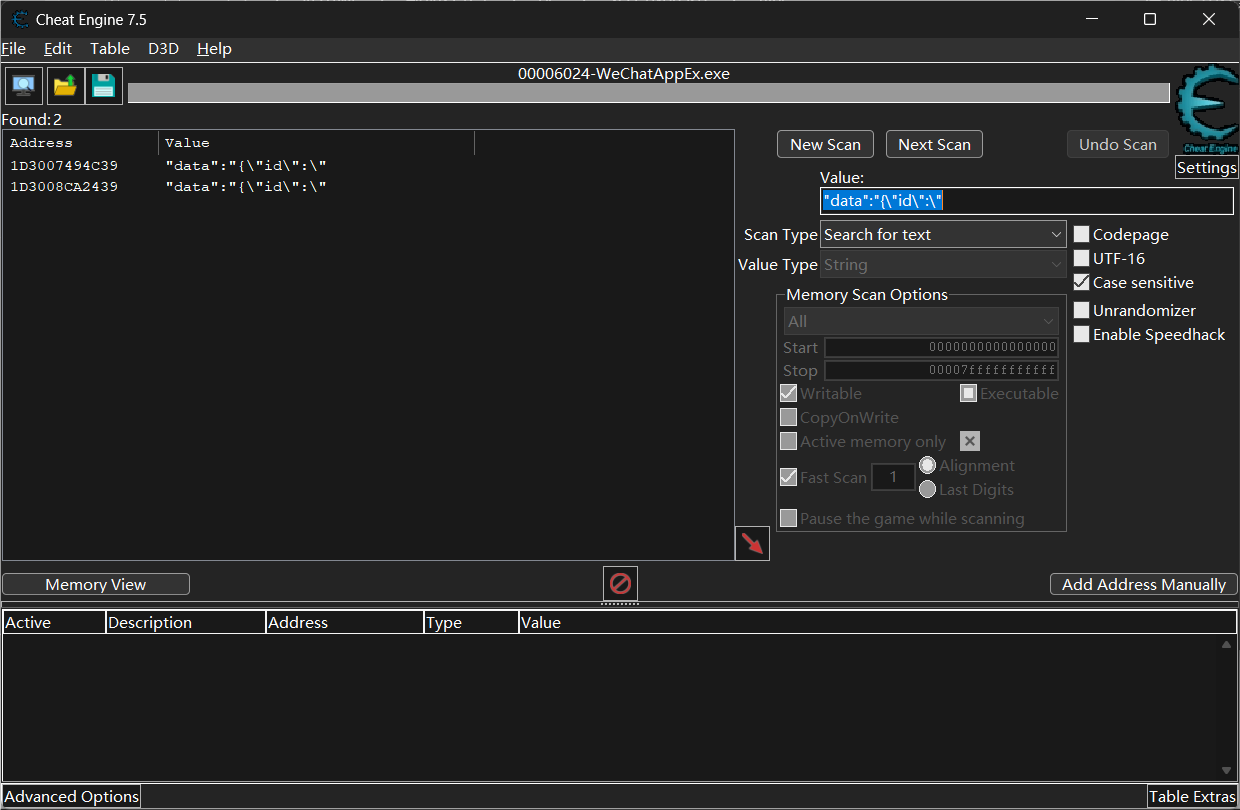
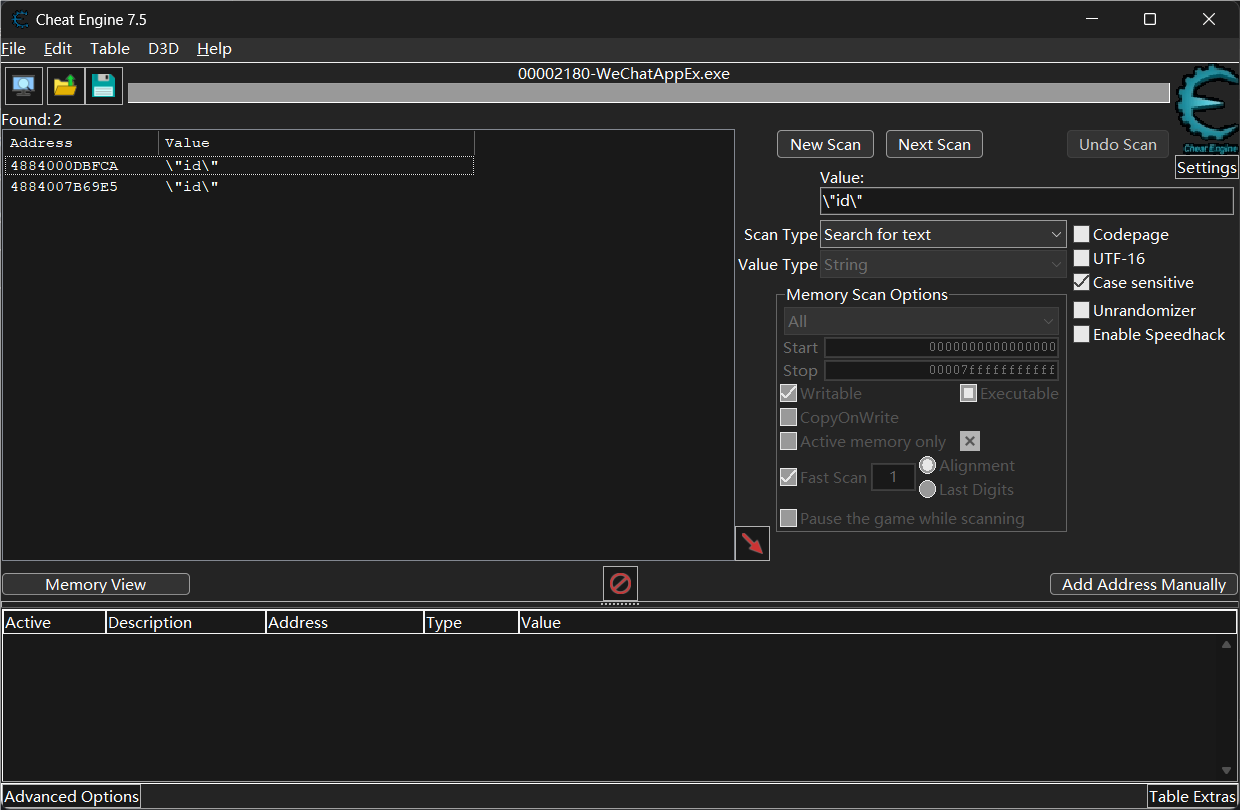
更新了readme，更正了一些操作

diff --git a/README.md b/README.md
@@ -41,7 +41,7 @@ python3 run.py
 
 1. 打开电脑端微信，运行小程序“东南大学体育管理”并登录自己的账号。
 2. 进入“锻炼”界面。
-![小程序主界面](files/miniapp_main_menu.png)
+   ![小程序主界面](files/miniapp_main_menu.png)
 
 ### 用Cheat Engine打开小程序
 
@@ -59,7 +59,7 @@ token是最重要的登录凭证，由一串长长的数字、字母和符号组
 在搜索框中输入`Bearer `（注意末尾有一个空格），然后点击`First scan`。
 ![搜索token_1](files/search_token_1.png)
 
-在结果中会出现多个条目。点击第一个结果，然后按下Ctrl+B，可以弹出一个新窗口。
+在结果中会出现多个条目。点击最后一个结果，然后按下Ctrl+B，将弹出一个新窗口。
 ![搜索token_2](files/search_token_2.png)
 ![搜索token_3](files/search_token_3.png)
 
@@ -67,11 +67,12 @@ token是最重要的登录凭证，由一串长长的数字、字母和符号组
 接着，将这串字符复制到本程序的token输入框中，如图。
 ![编辑token](files/edit_token.png)
 
-*注：如果未能找到一串无规则字符串，请使用相同的方法查看第二个、第三个地址，直到找到token。如果所有地址均没有，则尝试打开小程序的其他页面，重复以上步骤。*
+*注：如果未能找到一串无规则字符串，请使用相同的方法查看第二个、第三个地址，直到找到token。如果所有地址均没有，则尝试打开小程序的其他页面，重复以上步骤。
+实测发现，此值仅在官方小程序启动后1分钟内出现，时间过长则会自动消失，尚不清楚原因。若操作时间过长导致所有搜索结果中均未发现有效的token值，则应利用任务管理器彻底结束小程序进程，再重复操作。*
 
 #### 获取自己的tenant
 
-成功获取token后，保持Memory_viewer对话框的打开状态，稍微向上滚动地址区域，可以找到自己的tenant值。
+成功获取token后，保持Memory_viewer对话框的打开状态，稍微向上滚动地址区域，可以找到自己的tenant值。tenant值的末尾应该是两个等号。
 ![获取tenant](files/get_tenant.png)
 
 同上，在主程序中填入tenant值。
@@ -79,14 +80,16 @@ token是最重要的登录凭证，由一串长长的数字、字母和符号组
 
 #### 获取自己的id
 
-与获取token时类似，在输入框中输入`"data":"{\"id\":\"`并进行搜索。
+与获取token时类似，在输入框中输入`\"id\":\"`并进行搜索。
 ![搜索id_1](files/search_id_1.png)
 
-单击得到的地址，按Ctrl+B，即可找到你的id。
+单击得到的地址，按Ctrl+B，即可找到你的id。id一定是约18位的数字，大多数情况下都以3开头。
 ![搜索id_2](files/search_id_2.png)
 
 同上，在主程序中填入id值。
 ![编辑id](files/edit_id.png)
+
+*同上，若没有找到正确的id值，则尝试重启小程序并重试。*
 
 至此，繁琐的凭证获取过程结束了，可以关闭Cheat Engine，接下来可以配置其他选项。
 
@@ -104,22 +107,28 @@ token是最重要的登录凭证，由一串长长的数字、字母和符号组
 | Distance | 锻炼距离 | 单位为km |
 | Calorie | 本次消耗的卡路里 | 若无需求保持默认即可 |
 
-
 ### 运行主程序
 
-先点击`Save Changes`将配置文件保存到本地（以便将来无须重新填写身份信息），然后填入你的 Licecse Key （目前可填入`LOVESEU`），单击`Run`，程序即开始运行，此时可在右侧观察到输出的日志记录。
+先点击`Save Changes`将配置文件保存，然后填入你的 Licecse Key （目前可填入`LOVESEU`），单击`Run`，程序即开始运行，此时可在右侧观察到输出的日志记录。
 当弹窗显示`Operation completed successfully!`或右侧日志区中输出`INFO - Record added successfully`时，即成功上传自己的运动记录。
 ![运行成功示例](files/save_succeeded.png)
 此时可前往官方小程序查看上传结果。
 ![运行结果](files/result.png)
 
+*注：连续多次运行时，或者将来再次运行时，每次运行之前都应该点击`Save Changes`保存配置信息，否则配置将不会生效！*
+
 ## 故障排查
 
 程序运行日志将实时输出在右侧的文本框中，如程序报错可在此查看记录。项目初期错误处理尚不完善，希望大家能够提交issue帮助我们改进！
 
-## 获取运行程序所需的 License Key
+### 常见问题
 
-目前使用 License Key`LOVESEU`即可激活本程序（限前1000次使用）。
+!(SSLerror)[files/SSLerr.jpg]
+一般是网络问题，此时电脑连接手机热点即可解决（注意，手机也需要使用流量，不使用校园网）。若连接热点后仍然无法解决，则应重新检查凭证是否正确。
+
+## 获取运行程序所需的 License key
+
+目前使用key`LOVESEU`即可激活本程序（限前1000次使用）。
 
 ## 免责声明
 
